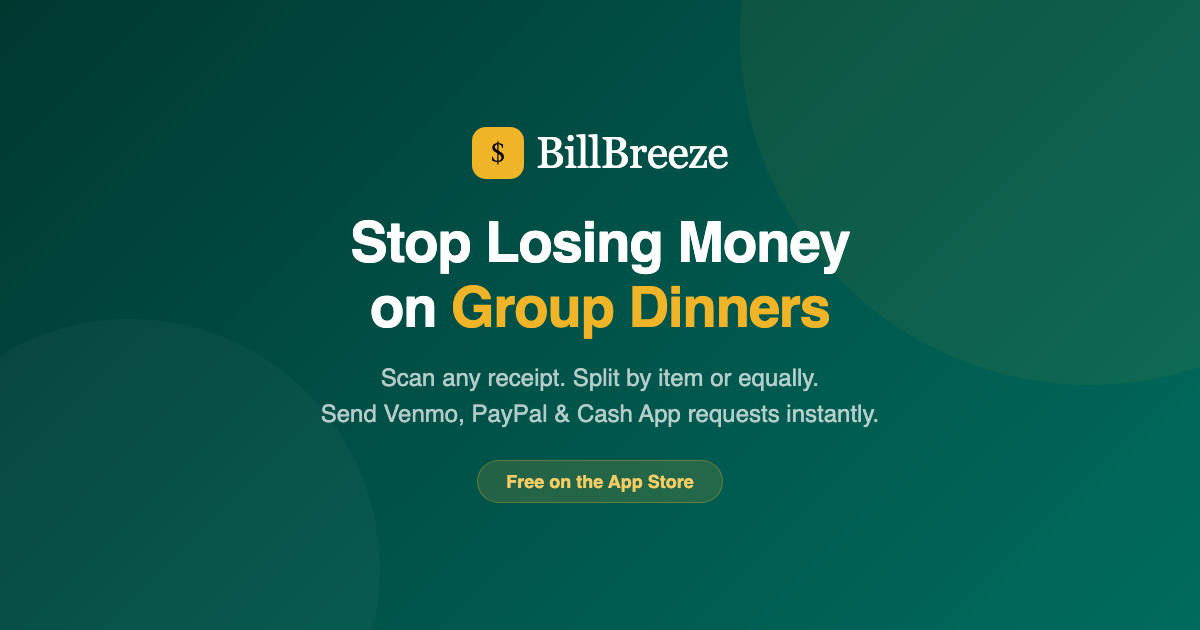
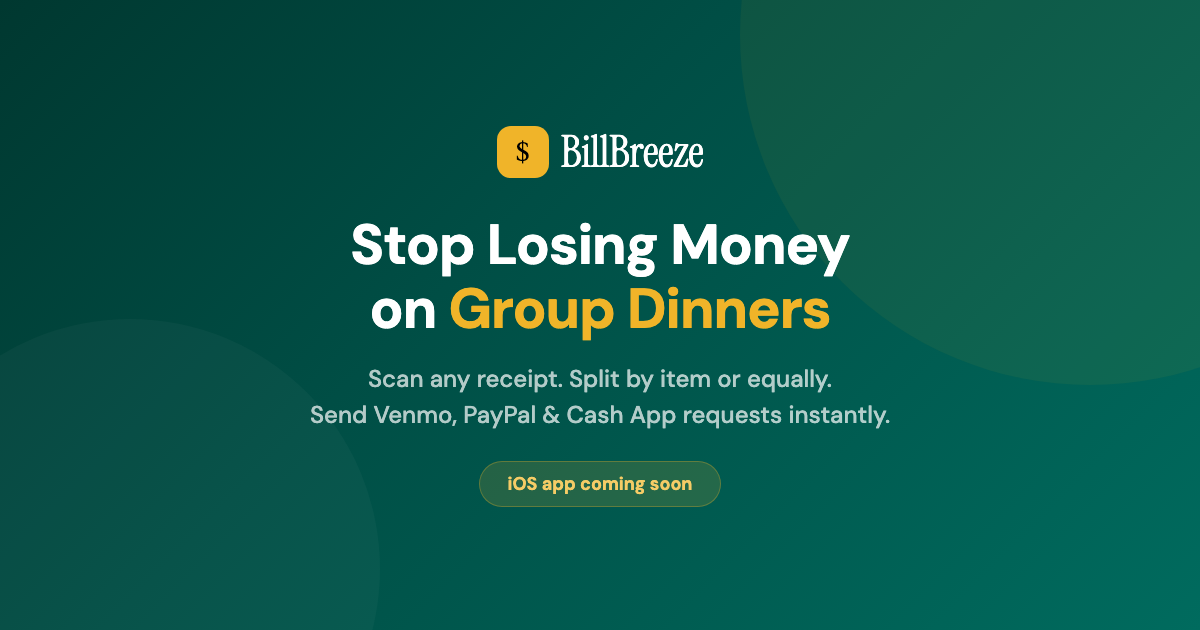
Fix @import order and update OG image copy to "iOS app coming soon"
Addresses Copilot review: @import must precede other CSS rules,
and app isn't in the App Store yet.

diff --git a/landing/og-image.html b/landing/og-image.html
@@ -3,8 +3,8 @@
 <head>
 <meta charset="UTF-8">
 <style>
-  * { margin: 0; padding: 0; box-sizing: border-box; }
   @import url('https://fonts.googleapis.com/css2?family=DM+Sans:wght@500;700&family=Instrument+Serif&display=swap');
+  * { margin: 0; padding: 0; box-sizing: border-box; }
 
   body {
     width: 1200px;
@@ -122,7 +122,7 @@
       </div>
       <h1>Stop Losing Money<br>on <span>Group Dinners</span></h1>
       <p>Scan any receipt. Split by item or equally.<br>Send Venmo, PayPal & Cash App requests instantly.</p>
-      <div class="pill">Free on the App Store</div>
+      <div class="pill">iOS app coming soon</div>
     </div>
   </div>
 </body>
